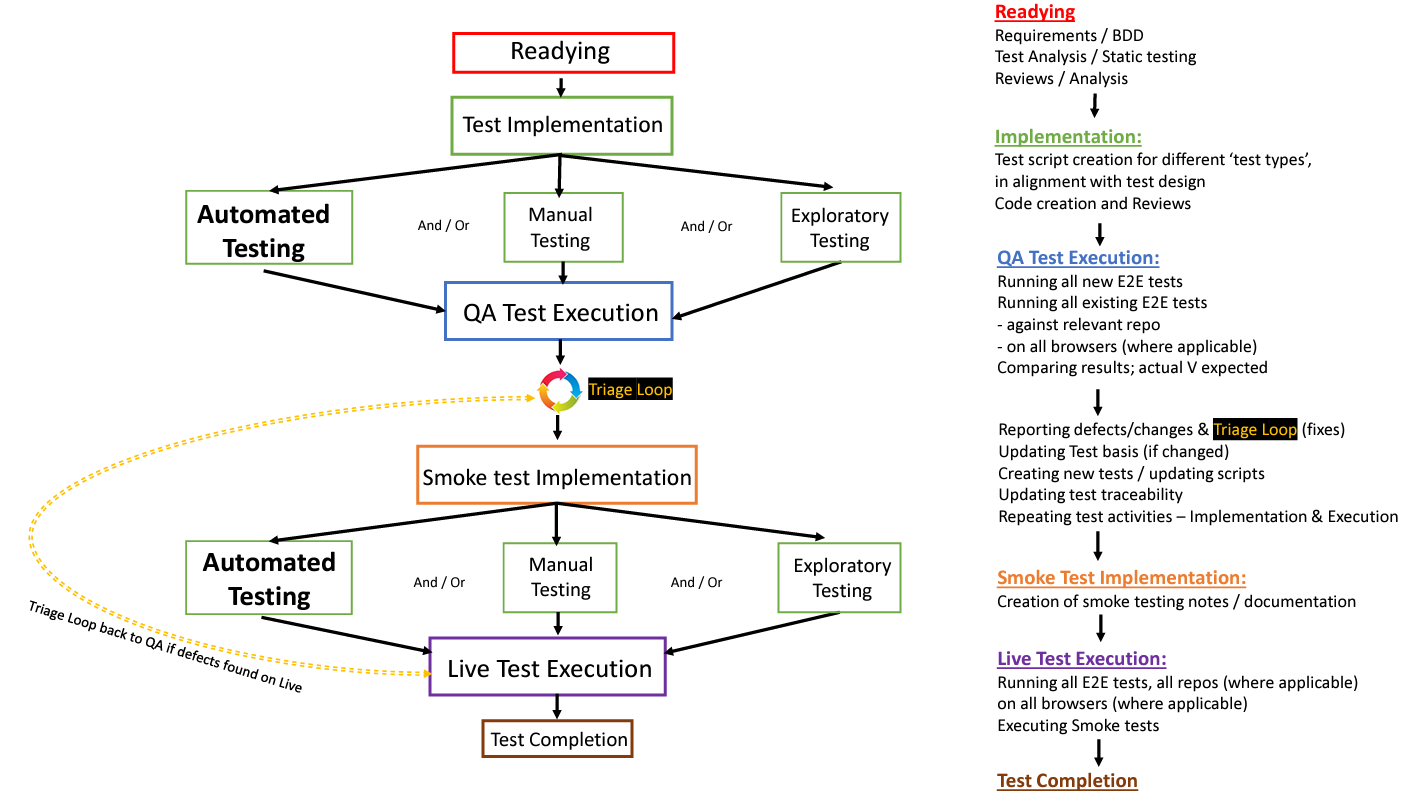
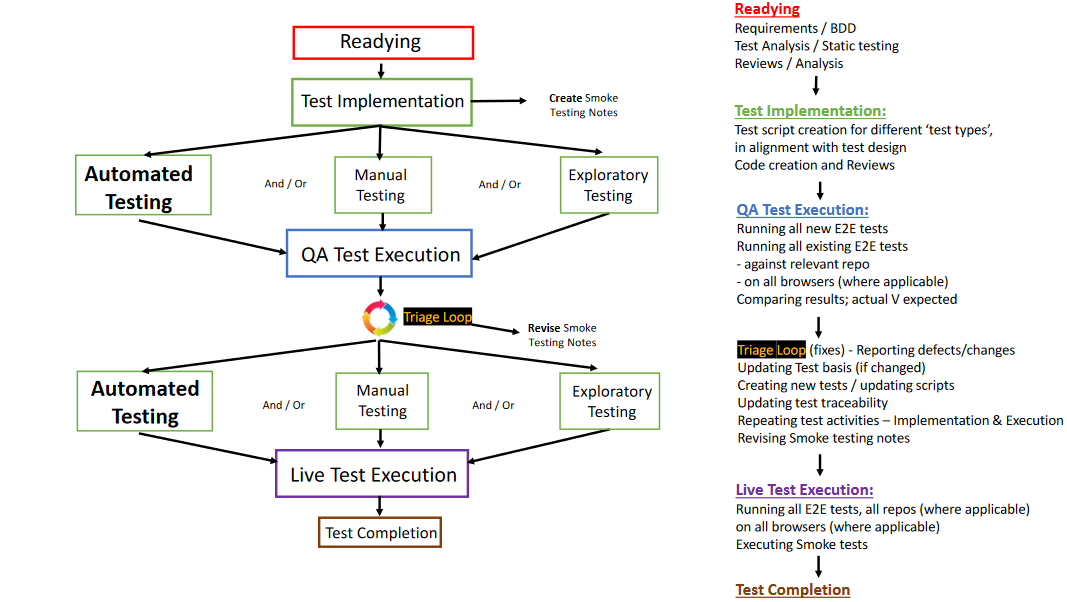
Revised changes to BLI test workflow section and updated diagram

diff --git a/docs/Delivery-Practices/Build-and-Release/Engineering/Test-Engineering/Testing-Workflow.md b/docs/Delivery-Practices/Build-and-Release/Engineering/Test-Engineering/Testing-Workflow.md
@@ -14,7 +14,7 @@ The above diagram outlines WHEN we need to execute our End to End (E2E) Regressi
 
 ## Test implementation
 
-Please note, it is not mandatory to implement or execute all 'test types', such as automation, manual and exploratory testing. Our focus is on automated testing (to grow our regression suite). We should only manually or exploratory test in the absence of automation, or in addition to it, and always to a purposeful objective. The type of testing implemented will be driven by many factors and is very heavily dependent on the individual backlog item. 
+Please note, it is not mandatory to implement or execute all 'test types', such as automation, manual and exploratory testing. Our focus is on automated testing. We should only manually or exploratory test in the absence of automation, or in addition to it, and always to a purposeful objective. The type of testing implemented will be driven by many factors and is very heavily dependent on the individual backlog item. Smoke testing notes are often written or at least started in this phase, and later revised in the Smoke Test Implementation state. 
 
 ## What is the difference between Manual and exploratory testing?
 In a nutshell, manual testing is generally very structured and rigid, it involves writing out test steps and then executing them. What it lacks is the ability for a tester to think outside the box and have the freedom to use their skills, experience and knowledge. Although manual testing can have its place and benefits, so can exploratory testing and it is a combination of these test types (including automation), which contribute to test coverage and overall quality and confidence in testing. 
@@ -27,9 +27,7 @@ For more information on the differences between Manual and Exploratory testing, 
 ## QA Test execution
 
 This should involve:
-- Running ALL new E2E tests (on the relevant feature branch)
-- Running ALL existing E2E tests 
-- Running tests on ALL browsers (where applicable) 
+- Running playwright tests on ALL browsers (where applicable) 
 
 The above should be run against the relevant repo, in GitHub actions:
 
@@ -50,7 +48,7 @@ As a result of QA Test Execution, defects may be discovered which need to be fix
 
 ## Smoke Test implementation
 
-The reason Smoke test notes are added after QA execution and not initial 'Test implementation', is a result of the possible Triage loop (explained above). If a defect is found which requires a change to development implementation, then a corresponding test will need to be updated or written (if no existing coverage). Ideally, we would be covering this with automation. However, it's also not a bad idea to have a smoke test note to manually verify it upon release. This is a 'sanity' test and gives further confidence in the quality. 
+Smoke test notes are often started in the Test implementation stage. However, the reason Smoke test Implementation is added after QA execution is a result of the possible Triage loop (explained above). If a defect is found which requires a change to development implementation, then a corresponding test will need to be updated or written (if no existing coverage). Ideally, we would be covering this with automation. However, it's also not a bad idea to have a smoke test note to manually verify it upon release. This is a 'sanity' test and gives further confidence in the quality. 
 
 ## Live Test execution
 
@@ -60,3 +58,4 @@ This should involve:
 - Running E2E tests on ALL browsers (where applicable)
 - Executing Smoke tests (usually on chrome)
 
+If any Bugs are found on Live environments then (depending on the Risk/Result of that bug) we either roll back to a previous deployment version, or create a new Backlog Item to fix the Bug. 
